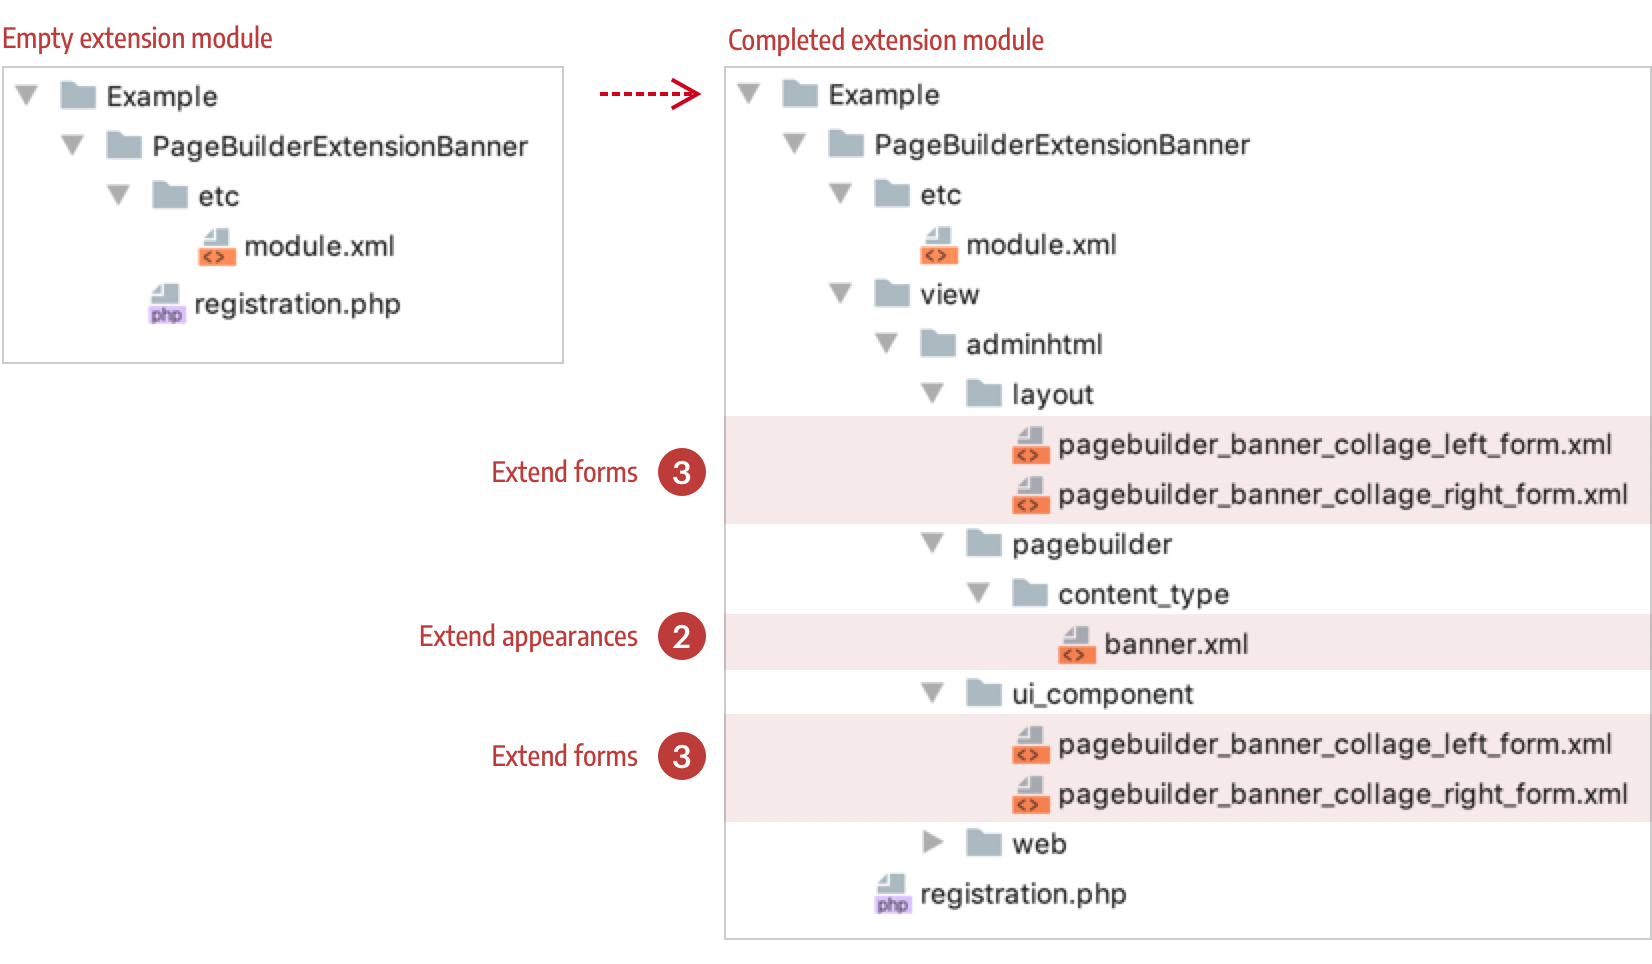
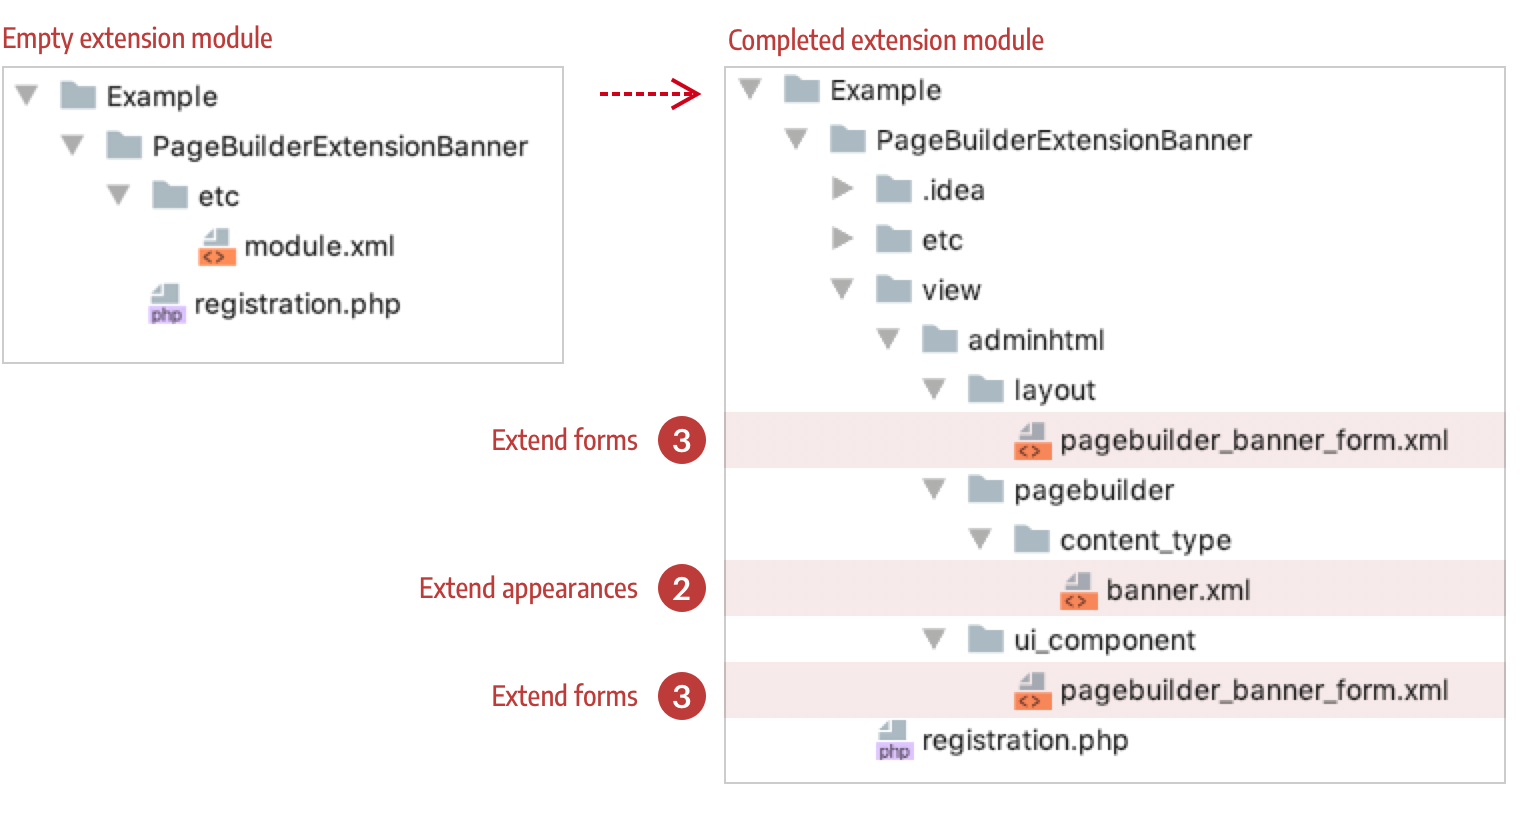
MAGEDOC-3550: How to add an appearance
Fixed tutorial, highlighted install instructions, and update release note

Changed region(s): [[0.0, 0.0307, 1.0, 0.9828], [0.2464, 0.6143, 0.462, 0.8907], [0.308, 0.43, 0.462, 0.5835]]

diff --git a/docs/extend-existing-content-type/step-3-extend-forms.md b/docs/extend-existing-content-type/step-3-extend-forms.md
@@ -4,42 +4,41 @@ In this step, you will extend the Banner form (`pagebuilder_banner_form.xml`) by
 
 ## Create the appearance forms
 
-Page Builder forms are UI component forms. This means they follow the same conventions as any other UI component form. If you are not already familiar with UI component forms, you can learn more about them from the [UI Components Guide](https://devdocs.magento.com/guides/v2.3/ui_comp_guide/concepts/ui_comp_xmldeclaration_concept.html). For this tutorial, we provide you with the basic markup for setting up these forms.
+Page Builder forms are UI component forms. This means they follow the same conventions as any other UI component form. If you are not already familiar with UI component forms, you can learn more about them from the [UI Components Guide](https://devdocs.magento.com/guides/v2.3/ui_comp_guide/concepts/ui_comp_xmldeclaration_concept.html). For this tutorial, we provide you with the basic markup for setting up an empty form.
 
 Your file structure for the Banner extension forms and corresponding layouts should look like this: 
 
-![Extension forms file structure](../images/extension-forms-files.png){:width="433px" height="auto"}
+![Extension forms file structure](../images/extension-forms-files.png){:width="544px" height="auto"}
 
-When setting up your extension forms, ensure you are inheriting from the form of the content type you want to extend. In our case, we are extending from the Banner's form: `page-banner-form` . The basic XML configuration for both forms is as follows. 
+When setting up your extension form, ensure you have named your form with the same name as that of the content type you want to extend. In our case, we are extending from the Banner's form: `page-banner-form.xml` . The basic XML configuration for both forms is as follows. 
 
 ### `collage-left` form
 
 ```xml
 <?xml version="1.0" encoding="UTF-8"?>
 <form xmlns:xsi="http://www.w3.org/2001/XMLSchema-instance"
-      xsi:noNamespaceSchemaLocation="urn:magento:module:Magento_Ui:etc/ui_configuration.xsd"
-      extends="pagebuilder_banner_form">
+      xsi:noNamespaceSchemaLocation="urn:magento:module:Magento_Ui:etc/ui_configuration.xsd">
     <argument name="data" xsi:type="array">
         <item name="js_config" xsi:type="array">
             <item name="provider" xsi:type="string">
-                pagebuilder_banner_collage_left_form.pagebuilder_banner_collage_left_form_data_source
+                pagebuilder_banner_form.pagebuilder_banner_form_data_source
             </item>
         </item>
         <item name="label" xsi:type="string" translate="true">Banner</item>
     </argument>
     <settings>
         <deps>
-            <dep>pagebuilder_banner_collage_left_form.pagebuilder_banner_collage_left_form_data_source</dep>
+            <dep>pagebuilder_banner_form.pagebuilder_banner_form_data_source</dep>
         </deps>
-        <namespace>pagebuilder_banner_collage_left_form</namespace>
+        <namespace>pagebuilder_banner_form</namespace>
     </settings>
-    <dataSource name="pagebuilder_banner_collage_left_form_data_source">
+    <dataSource name="pagebuilder_banner_form_data_source">
         <argument name="data" xsi:type="array">
             <item name="js_config" xsi:type="array">
                 <item name="component" xsi:type="string">Magento_PageBuilder/js/form/provider</item>
             </item>
         </argument>
-        <dataProvider name="pagebuilder_banner_collage_left_form_data_source" class="Magento\PageBuilder\Model\ContentType\DataProvider">
+        <dataProvider name="pagebuilder_banner_form_data_source" class="Magento\PageBuilder\Model\ContentType\DataProvider">
             <settings>
                 <requestFieldName/>
                 <primaryFieldName/>
@@ -49,47 +48,6 @@ When setting up your extension forms, ensure you are inheriting from the form of
   
   <!--Add Fieldsets and fields-->
   
-</form>
-```
-
-### `collage-right` form
-
-```xml
-<?xml version="1.0" encoding="UTF-8"?>
-<form xmlns:xsi="http://www.w3.org/2001/XMLSchema-instance"
-      xsi:noNamespaceSchemaLocation="urn:magento:module:Magento_Ui:etc/ui_configuration.xsd"
-      extends="pagebuilder_banner_form">
-    <argument name="data" xsi:type="array">
-        <item name="js_config" xsi:type="array">
-            <item name="provider" xsi:type="string">
-                pagebuilder_banner_collage_right_form.pagebuilder_banner_collage_right_form_data_source
-            </item>
-        </item>
-        <item name="label" xsi:type="string" translate="true">Banner</item>
-    </argument>
-    <settings>
-        <deps>
-            <dep>pagebuilder_banner_collage_right_form.pagebuilder_banner_collage_right_form_data_source</dep>
-        </deps>
-        <namespace>pagebuilder_banner_collage_right_form</namespace>
-    </settings>
-    <dataSource name="pagebuilder_banner_collage_right_form_data_source">
-        <argument name="data" xsi:type="array">
-            <item name="js_config" xsi:type="array">
-                <item name="component" xsi:type="string">Magento_PageBuilder/js/form/provider</item>
-            </item>
-        </argument>
-        <dataProvider name="pagebuilder_banner_collage_right_form_data_source"
-                      class="Magento\PageBuilder\Model\ContentType\DataProvider">
-            <settings>
-                <requestFieldName/>
-                <primaryFieldName/>
-            </settings>
-        </dataProvider>
-    </dataSource>
-  
-  <!--Add Fieldsets and fields-->
-
 </form>
 ```
 
@@ -97,7 +55,7 @@ When setting up your extension forms, ensure you are inheriting from the form of
 
 Before you add a field to the form of an existing content type, you need to know where to add it. In other words, you need to decide which fieldset to put your field in. We want to put our new max-height field with the Banner's existing min-height field, which is the `appearance_fieldset`.
 
-The markup for adding the field to the fieldset looks exactly like this for both forms:  
+The markup for adding the field to the fieldset looks like this:  
 
 ```xml
 <fieldset name="appearance_fieldset"

diff --git a/docs/release-notes.md b/docs/release-notes.md
@@ -1,85 +1,4 @@
 # Release Notes
 
-## Beta 8 - February 19, 2019
-
-- Resolved: Analytics module sequence issue.
-
-## Beta 7 - February 14, 2019
-
-Beta 7 has breaking changes due to renaming of several critical variables and parameters in Page Builder's code and configuration. Please refer to the [breaking changes document](https://devdocs.magedevteam.com/ds_pagebuilder/page-builder/breaking-changes.html) for details on how to update your custom content types.
-
-- Resolved: Content type markup within Text content type causes whole stage to become HTML <!--MC-13917-->
-- Resolved: Hard-coded margins on individual Button <!--MC-13925-->
-- Resolved: Various TypeScript errors <!--MC-10833-->
-- Resolved: Column rearranging drop zone indicators are too small and sometimes hard to activate <!--MC-4262-->
-- Resolved: Collect Page Builder content type data for Page Builder analytics <!--MC-1426-->
-- Resolved: Improve naming of the critical variables/parameters in the code and configuration <!--MC-5810-->
-- Resolved: Text height inconsistency on stage and storefront <!--MC-4254-->
-- Resolved: Option menus, Heading inline editor, and tinyMCE inline editor are cut off on full screen view <!--MC-5383-->
-- Resolved: Anchor tags for TinyMCE links are not added to the storefront for Banners and Slides (Added notification for when link attribute is entered) <!--MC-5386-->
-- Resolved: `WidgetInitializerConfig` only supports <div /> elements <!--MC-13770-->
-- Resolved: Slide dots are hard to see against certain backgrounds on storefront <!--MC-5701-->
-- Resolved: Missing validation message when uploading big image <!--MC-5184-->
-- Resolved: Security issues <!--MC-10871, MC-13922-->
-
-## Beta 6 - February 4, 2019
-
-- Resolved: Background attachments of "fixed" do not work in storefront on Android or iPhone mobile devices<!-- MC-5419 -->
-- Resolved: Minimum height issues with Columns <!-- MC-5405 -->
-- Resolved: Parallax fixed settings should work in admin and storefront <!-- MC-11066 -->
-- Resolved: Move data migration into its own module <!-- MC-5824 -->
-- Resolved: Changing row appearance with two rows on stage breaks admin <!-- MC-11821 -->
-- Resolved: Banner and Slider TinyMCE menus display inconsistently in admin <!-- MC-13691 -->
-- Improved: Test coverage for CMS Blocks and Catalog Product <!-- MC-3328, MC3329 -->
-
-## Beta 5 - January 28, 2019
-
-- Resolved: Prefixed field names with section name to avoid field name collision <!-- MC-5232 -->
-- Resolved: MFTF: Rewrite Selectors/ActionGroups to allow using Page Builder in non-CMS page areas <!-- MC-4231 -->
-- Resolved: Right/Left Margin Not Working For Content Types <!-- MC-5025 -->
-- Resolved: Alignment doesn't work for Slide, Banners, & Text Placeholders & for Slide Content & Banner Poster Content <!-- MMC-4290 -->
-- Resolved: Implement better developer error reporting <!-- MC-5691 -->
-- Resolved: Banner placeholder disappears when user switching between different appearances <!-- MC-5727 -->
-
-## Beta 4 - January 14, 2019
-
-- Resolved: Collage Center/Left/Right does not work correctly in a container smaller than 100% width <!-- MC-5372 -->
-- Resolved: Contained row appearance renders too small when in smaller container or in Block/Dynamic Block <!-- MC-5432 -->
-- Resolved: XSS Vulnerability in Page Builder <!-- MC-5835 -->
-
-## Beta 3 - December 19, 2018
-
-- Improved: Handling of invalid Google Maps API keys <!-- MC-5723 -->
-- Removed: Legacy overlay transparency field from banner & slider in favor of using the color picker <!-- MC-3895 -->
-- Resolved: Box sizing issues on storefront and Admin <!-- MC-5079 --> 
-- Resolved: Issue with initiation of tabs breaking in certain scenarios <!-- MC-5363 --> 
-- Resolved: Performance issues with "Edit with Page Builder" button in category and product areas <!-- MC-5403 --> 
-- Resolved: Numerous issues within staging slide out <!-- MC-5423 --> 
-
-## Beta 2 - December 10, 2018
-
-- Resolved: Image inside Text Content Type is scaled on stage <!-- MC-3509 --> 
-- Resolved: Padding is not respected on Text <!-- MC-3713 --> 
-- Resolved: Saving Slide Button Type As Secondary Or Link Will Still Show As Primary On Edit Form <!-- MC-3818 --> 
-- Resolved: Columns Widths Are Not Consistent Between Stage & Storefront <!-- MC-3992 --> 
-- Resolved: Review Information Covered By Add To Cart Button On Products On Stage <!-- MC-4130 --> 
-- Resolved: Hard Coded Padding On Button Groups & On Text <!-- MC-4278 --> 
-- Resolved: Remove Reset Button From Slide Outs For All Content Types <!-- MC-5790 --> 
-- Resolved: Remove is_hideable option from content type configuration <!-- MC-4959 --> 
-- Resolved: IE11 - Cannot Use Slide Item Option Menu <!-- MC-5443 --> 
-
-## Beta 1 - November 27, 2018
-
-- Initial beta release
-
-## Known Issues
-
-* Degraded admin experience when using IE 11.
-* Product does not display in admin when it is assigned to a specific website. <!-- MC-5373 -->
-* Issues with padding, margins, and box-sizing on numerous content types. <!-- MC-11021 -->
-* Floating option menus and other controls can be displayed off screen when content types are rendered near the edge of the screen. <!-- MC-5383 -->
-* Degraded Parallax performance on storefront and in admin within some browsers. <!-- MC-5480 -->
-* Using Page Builder within a slide out form has a degraded experience.
-    * Left-side panel will not scroll with the user.
-    * Dragging and dropping can become broken due to another instance of Page Builder being loaded.
-
+## 1.0.0
+- General availability release

diff --git a/docs/release-notes-beta.md b/docs/release-notes-beta.md
@@ -1,0 +1,85 @@
+# Release Notes
+
+## Beta 8 - February 19, 2019
+
+- Resolved: Analytics module sequence issue.
+
+## Beta 7 - February 14, 2019
+
+Beta 7 has breaking changes due to renaming of several critical variables and parameters in Page Builder's code and configuration. Please refer to the [breaking changes document](https://devdocs.magedevteam.com/ds_pagebuilder/page-builder/breaking-changes.html) for details on how to update your custom content types.
+
+- Resolved: Content type markup within Text content type causes whole stage to become HTML <!--MC-13917-->
+- Resolved: Hard-coded margins on individual Button <!--MC-13925-->
+- Resolved: Various TypeScript errors <!--MC-10833-->
+- Resolved: Column rearranging drop zone indicators are too small and sometimes hard to activate <!--MC-4262-->
+- Resolved: Collect Page Builder content type data for Page Builder analytics <!--MC-1426-->
+- Resolved: Improve naming of the critical variables/parameters in the code and configuration <!--MC-5810-->
+- Resolved: Text height inconsistency on stage and storefront <!--MC-4254-->
+- Resolved: Option menus, Heading inline editor, and tinyMCE inline editor are cut off on full screen view <!--MC-5383-->
+- Resolved: Anchor tags for TinyMCE links are not added to the storefront for Banners and Slides (Added notification for when link attribute is entered) <!--MC-5386-->
+- Resolved: `WidgetInitializerConfig` only supports <div /> elements <!--MC-13770-->
+- Resolved: Slide dots are hard to see against certain backgrounds on storefront <!--MC-5701-->
+- Resolved: Missing validation message when uploading big image <!--MC-5184-->
+- Resolved: Security issues <!--MC-10871, MC-13922-->
+
+## Beta 6 - February 4, 2019
+
+- Resolved: Background attachments of "fixed" do not work in storefront on Android or iPhone mobile devices<!-- MC-5419 -->
+- Resolved: Minimum height issues with Columns <!-- MC-5405 -->
+- Resolved: Parallax fixed settings should work in admin and storefront <!-- MC-11066 -->
+- Resolved: Move data migration into its own module <!-- MC-5824 -->
+- Resolved: Changing row appearance with two rows on stage breaks admin <!-- MC-11821 -->
+- Resolved: Banner and Slider TinyMCE menus display inconsistently in admin <!-- MC-13691 -->
+- Improved: Test coverage for CMS Blocks and Catalog Product <!-- MC-3328, MC3329 -->
+
+## Beta 5 - January 28, 2019
+
+- Resolved: Prefixed field names with section name to avoid field name collision <!-- MC-5232 -->
+- Resolved: MFTF: Rewrite Selectors/ActionGroups to allow using Page Builder in non-CMS page areas <!-- MC-4231 -->
+- Resolved: Right/Left Margin Not Working For Content Types <!-- MC-5025 -->
+- Resolved: Alignment doesn't work for Slide, Banners, & Text Placeholders & for Slide Content & Banner Poster Content <!-- MMC-4290 -->
+- Resolved: Implement better developer error reporting <!-- MC-5691 -->
+- Resolved: Banner placeholder disappears when user switching between different appearances <!-- MC-5727 -->
+
+## Beta 4 - January 14, 2019
+
+- Resolved: Collage Center/Left/Right does not work correctly in a container smaller than 100% width <!-- MC-5372 -->
+- Resolved: Contained row appearance renders too small when in smaller container or in Block/Dynamic Block <!-- MC-5432 -->
+- Resolved: XSS Vulnerability in Page Builder <!-- MC-5835 -->
+
+## Beta 3 - December 19, 2018
+
+- Improved: Handling of invalid Google Maps API keys <!-- MC-5723 -->
+- Removed: Legacy overlay transparency field from banner & slider in favor of using the color picker <!-- MC-3895 -->
+- Resolved: Box sizing issues on storefront and Admin <!-- MC-5079 --> 
+- Resolved: Issue with initiation of tabs breaking in certain scenarios <!-- MC-5363 --> 
+- Resolved: Performance issues with "Edit with Page Builder" button in category and product areas <!-- MC-5403 --> 
+- Resolved: Numerous issues within staging slide out <!-- MC-5423 --> 
+
+## Beta 2 - December 10, 2018
+
+- Resolved: Image inside Text Content Type is scaled on stage <!-- MC-3509 --> 
+- Resolved: Padding is not respected on Text <!-- MC-3713 --> 
+- Resolved: Saving Slide Button Type As Secondary Or Link Will Still Show As Primary On Edit Form <!-- MC-3818 --> 
+- Resolved: Columns Widths Are Not Consistent Between Stage & Storefront <!-- MC-3992 --> 
+- Resolved: Review Information Covered By Add To Cart Button On Products On Stage <!-- MC-4130 --> 
+- Resolved: Hard Coded Padding On Button Groups & On Text <!-- MC-4278 --> 
+- Resolved: Remove Reset Button From Slide Outs For All Content Types <!-- MC-5790 --> 
+- Resolved: Remove is_hideable option from content type configuration <!-- MC-4959 --> 
+- Resolved: IE11 - Cannot Use Slide Item Option Menu <!-- MC-5443 --> 
+
+## Beta 1 - November 27, 2018
+
+- Initial beta release
+
+## Known Issues
+
+* Degraded admin experience when using IE 11.
+* Product does not display in admin when it is assigned to a specific website. <!-- MC-5373 -->
+* Issues with padding, margins, and box-sizing on numerous content types. <!-- MC-11021 -->
+* Floating option menus and other controls can be displayed off screen when content types are rendered near the edge of the screen. <!-- MC-5383 -->
+* Degraded Parallax performance on storefront and in admin within some browsers. <!-- MC-5480 -->
+* Using Page Builder within a slide out form has a degraded experience.
+    * Left-side panel will not scroll with the user.
+    * Dragging and dropping can become broken due to another instance of Page Builder being loaded.
+

diff --git a/docs/extend-existing-content-type/step-2-extend-appearances.md b/docs/extend-existing-content-type/step-2-extend-appearances.md
@@ -19,9 +19,9 @@ Because we are extending the Banner, we start by creating a new configuration fi
 
 ![Extension config file structure](../images/appearance-extension-config-file.png){:width="511px" height="auto"}
 
-## Add the appearances you want to extend
+## Add properties to appearances
 
-We are only extending two Banner appearances, which means we only need to define two `appearance` elements in the config file, as shown here:
+Currently, you cannot extend just one appearance of a content type. You have to extend them all. In our example, we are extending the Banner content type, which has four appearances. Our example shows how you add a max-height property to all four of the Banner appearances.
 
 ```xml
 <?xml version="1.0"?>
@@ -34,7 +34,6 @@ We are only extending two Banner appearances, which means we only need to define
                         <style name="max_height" source="max_height" converter="Magento_PageBuilder/js/converter/style/remove-px"/>
                     </element>
                 </elements>
-                <form>pagebuilder_banner_collage_left_form</form>
             </appearance>
             <appearance name="collage-right">
                 <elements>
@@ -42,7 +41,20 @@ We are only extending two Banner appearances, which means we only need to define
                         <style name="max_height" source="max_height" converter="Magento_PageBuilder/js/converter/style/remove-px"/>
                     </element>
                 </elements>
-                <form>pagebuilder_banner_collage_right_form</form>
+            </appearance>
+            <appearance name="poster">
+                <elements>
+                    <element name="wrapper">
+                        <style name="max_height" source="max_height" converter="Magento_PageBuilder/js/converter/style/remove-px"/>
+                    </element>
+                </elements>
+            </appearance>
+            <appearance name="collage-centered">
+                <elements>
+                    <element name="wrapper">
+                        <style name="max_height" source="max_height" converter="Magento_PageBuilder/js/converter/style/remove-px"/>
+                    </element>
+                </elements>
             </appearance>
         </appearances>
     </type>
@@ -59,7 +71,6 @@ The following table describes the elements in our extension configuration.
 | `elements`    | The grouping element that specifies one or more `element` nodes. |
 | `element`     | The element maps styles and other appearance extensions from the form editor to the HTML templates that render content on the Admin stage and storefront. We want our appearance styles to map to the `wrapper` element of the Banner's templates, so the element for each appearance extension is named `wrapper`. |
 | `style`       | The `style` element configures the bindings from the form field to the template elements. In this case, our style is applied to the `wrapper` element of the template. The style `name` represents the CSS `max-height` style. The `source` is the name of the form field you want the style bound to. Hint: The field name added in step 3 is `max-height`. |
-| `form`        | Each appearance can use a different form to merge with or overwrite the Banner's form. You will create the form in step 3. |
 
 {:style="table-layout:auto"}
 

diff --git a/docs/getting-started/install-pagebuilder.md b/docs/getting-started/install-pagebuilder.md
@@ -1,6 +1,7 @@
 # Install Page Builder
 
-Page Builder is automatically installed with Magento Commerce 2.3.1. There is nothing else you need to do. However, If you want to contribute to the Page Builder code or documentation, you can use the GitHub installation as follows.
+{: .bs-callout .bs-callout-info }
+These installation instructions are only for contributors to the Page Builder code or documentation. For everyone else, **Page Builder is automatically installed with Magento Commerce 2.3.1. There is nothing else you need to do.**
 
 ## GitHub installation for Contributors
 
